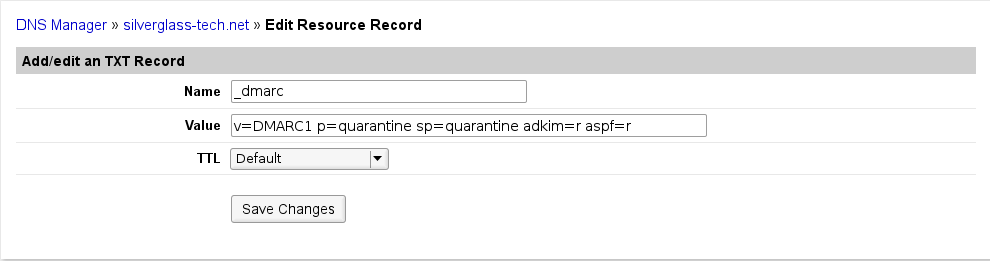
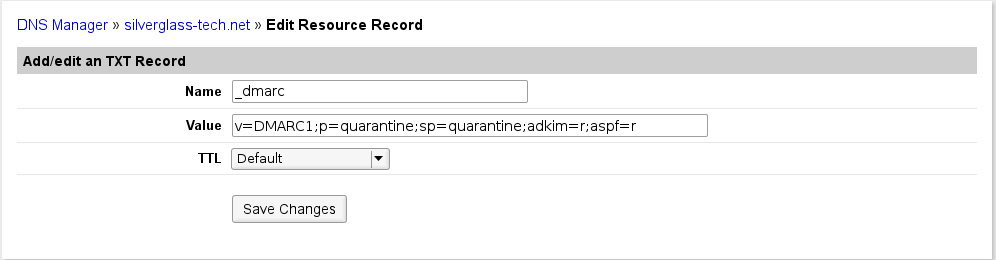
Fix separators in DNS record.

diff --git a/docs/email/postfix/configure-spf-and-dkim-in-postfix-on-debian-8.md b/docs/email/postfix/configure-spf-and-dkim-in-postfix-on-debian-8.md
@@ -392,11 +392,11 @@ The DMARC DNS record can be added to your domain to advise mail servers what you
 
 The DMARC record is a TXT record for host `_dmarc` in your domain containing the following recommended values:
 
-    v=DMARC1 p=quarantine sp=quarantine adkim=r aspf=r
+    v=DMARC1;p=quarantine;sp=quarantine;adkim=r;aspf=r
 
 This requests mail servers to quarantine (do not discard, but separate from regular messages) any email that fails either SPF or DKIM checks. No reporting of failures is requested. Very few mail servers implement the software to generate reports on failed messages, so there seems to be little point in requesting reports. If you do wish to request reports, the value would be:
 
-    v=DMARC1 p=quarantine sp=quarantine adkim=r aspf=r fo=1 rf=afrf rua=mailto:youremail@example.com ruf=mailto:youremail@example.com
+    v=DMARC1;p=quarantine;sp=quarantine;adkim=r;aspf=r;fo=1;rf=afrf;rua=mailto:youremail@example.com;ruf=mailto:youremail@example.com
 
 all as a single string. Replace `youremail@example.com` in the `mailto:` URLs with your own email or an email address you own dedicated to receiving reports. If you're using Linode's DNS Manager, the screen for the new text record will look like this:
 
